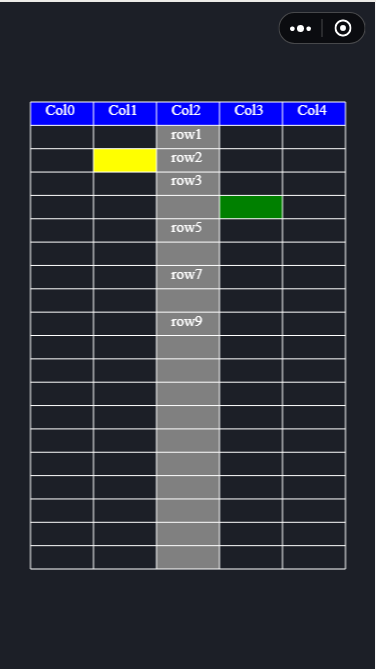
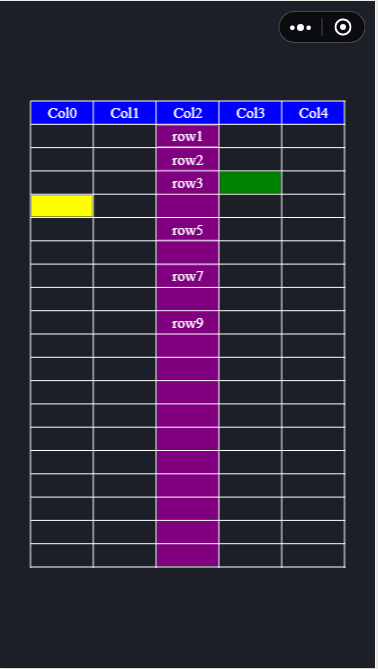
optimize

Changed region(s): [[0.0585, 0.1495, 0.9362, 0.867], [0.0, 0.0, 1.0, 1.0], [0.0585, 0.1495, 0.0878, 0.1794]]

diff --git a/js/charts/scroll-view.js b/js/charts/scroll-view.js
@@ -34,8 +34,10 @@ module.exports = function(ctx, options) {
     colW: options.colW,
     edgeLeft: options.edgeLeft,
     edgeTop: options.edgeTop,
-    width: options.width,
-    height: options.height,
+    edgeRight: options.edgeRight,
+    edgeBottom: options.edgeBottom,
+    width: 0,
+    height: 0,
     lineColor: options.lineColor || "black",
     lineWidth: options.lineWidth || 1.0,
     colTitle: options.colTitle || [],
@@ -49,6 +51,12 @@ module.exports = function(ctx, options) {
 
     // some init operation
     init: function() {
+      wx.getSystemInfo({
+        success: info => {
+          this.height = info.windowHeight - this.edgeBottom - this.edgeTop
+          this.width = info.windowWidth - this.edgeLeft - this.edgeRight
+        }
+      })
       this.rowH = (this.height - this.lineWidth * (this.rowNum + 1)) / this.rowNum
       this.colW = (this.width - this.lineWidth * (this.colNum + 1)) / this.colNum
     },
@@ -58,16 +66,22 @@ module.exports = function(ctx, options) {
       let ctx = this.ctx
       ctx.strokeStyle = this.lineColor
       ctx.lineWidth = this.lineWidth
+
+      ctx.translate(this.edgeLeft, this.edgeTop)
+
+      let startX = 0
+      let endX = startX + this.width;
+      let startY, endY
       for(let i=0; i < this.rowNum+1; i++) {
-        let startX = this.edgeLeft;
-        let endX = this.edgeLeft + this.width;
-        let startY = this.edgeTop + i * (this.rowH + this.lineWidth)
-        let endY = startY
+        startY = i * (this.rowH + this.lineWidth)
+        endY = startY
         ctx.beginPath();
         ctx.moveTo(startX, startY);
         ctx.lineTo(endX, endY);
         ctx.stroke();
       }
+
+      ctx.translate(- this.edgeLeft, - this.edgeTop)
     },
 
     // draw vertical
@@ -75,31 +89,42 @@ module.exports = function(ctx, options) {
       let ctx = this.ctx
       ctx.strokeStyle = this.lineColor
       ctx.lineWidth = this.lineWidth
+
+      ctx.translate(this.edgeLeft, this.edgeTop)
+
+      let startY = 0
+      let endY = startY + this.height
+      let startX = 0
+      let endX = 0
       for(let i=0; i < this.colNum+1; i++) {
-        let startX = this.edgeLeft + i * (this.colW + this.lineWidth)
-        let endX = startX
-        let startY = this.edgeTop
-        let endY = startY + this.height
+        startX = i * (this.colW + this.lineWidth)
+        endX = startX
         ctx.beginPath()
         ctx.moveTo(startX, startY)
         ctx.lineTo(endX, endY)
         ctx.stroke()
       }
+
+      ctx.translate(- this.edgeLeft, - this.edgeTop)
     },
 
     // draw column title
     drawColTitle: function() {
-      let startX = 0
-      let startY = this.edgeTop + this.lineWidth + this.rowH / 2
       let ctx = this.ctx
       ctx.font = this.titleFont
       ctx.fillStyle = this.titleColor 
       ctx.textAlign = "center"
       ctx.textBaseline = "middle"
+
+      ctx.translate(this.edgeLeft + this.lineWidth, this.edgeTop + this.lineWidth)
+
+      let startX = 0
+      let startY = this.rowH / 2
       for(let i=0; i<this.colTitle.length; i++) {
-        startX = this.edgeLeft + this.lineWidth + i * (this.colW + this.lineWidth) + this.colW / 2
+        startX = i * (this.colW + this.lineWidth) + this.colW / 2
         ctx.fillText(this.colTitle[i], startX, startY)
       }
+      ctx.translate(- this.edgeLeft - this.lineWidth, - this.edgeTop - this.lineWidth)
     },
 
     // draw background color
@@ -109,10 +134,12 @@ module.exports = function(ctx, options) {
       this.ctx.fillStyle = this.bgColor
       this.ctx.fillRect(this.edgeLeft, this.edgeTop, this.width, this.height)
       
+      ctx.translate(this.edgeLeft + this.lineWidth, this.edgeTop + this.lineWidth)
+
       // for column
       for(let i=0; i<this.rcBgColor.cols.length; i++) {
-        startX = this.edgeLeft + this.lineWidth + this.rcBgColor.cols[i][0] * (this.colW + this.lineWidth)
-        startY = this.edgeTop + this.lineWidth + (this.hasTitle ? (this.rowH + this.lineWidth) : 0)
+        startX = this.rcBgColor.cols[i][0] * (this.colW + this.lineWidth)
+        startY = this.hasTitle ? (this.rowH + this.lineWidth) : 0
         w = this.colW
         h = this.height - 3 * this.lineWidth - (this.hasTitle ? (this.rowH + this.lineWidth) : 0)
         this.ctx.fillStyle = this.rcBgColor.cols[i][1]
@@ -120,8 +147,8 @@ module.exports = function(ctx, options) {
       }
       // for row
       for(let i=0; i<this.rcBgColor.rows.length; i++) {
-        startX = this.edgeLeft + this.lineWidth
-        startY = this.edgeTop + this.lineWidth + this.rcBgColor.rows[i][0] * (this.rowH + this.lineWidth)
+        startX = 0
+        startY = this.rcBgColor.rows[i][0] * (this.rowH + this.lineWidth)
         w = this.width - 3 * this.lineWidth
         h = this.rowH - this.lineWidth
         this.ctx.fillStyle = this.rcBgColor.rows[i][1]
@@ -130,23 +157,26 @@ module.exports = function(ctx, options) {
 
       // for cell
       for(let i=0; i<this.rcBgColor.cells.length; i++){
-        startX = this.edgeLeft + this.lineWidth + this.rcBgColor.cells[i][1] * (this.colW + this.lineWidth)
-        startY = this.edgeTop + this.lineWidth + this.rcBgColor.cells[i][0] * (this.rowH + this.lineWidth)
+        startX = this.rcBgColor.cells[i][1] * (this.colW + this.lineWidth)
+        startY = this.rcBgColor.cells[i][0] * (this.rowH + this.lineWidth)
         w = this.colW - this.lineWidth
         h = this.rowH - this.lineWidth
         this.ctx.fillStyle = this.rcBgColor.cells[i][2]
         this.ctx.fillRect(startX, startY, w, h)
       }
+
+      ctx.translate(- this.edgeLeft - this.lineWidth, - this.edgeTop - this.lineWidth)
     },
 
     // draw item content
     drawItem: function(itemContent) {
       let startX, startY, w, h
       let ctx = this.ctx
+      ctx.translate(this.edgeLeft + this.lineWidth, this.edgeTop + this.lineWidth)
       for(let i=0; i<itemContent.length; i++) {
         // clear old item
-        startX = this.edgeLeft + this.lineWidth + itemContent[i][1] * (this.colW + this.lineWidth)
-        startY = this.edgeTop + this.lineWidth + itemContent[i][0] * (this.rowH + this.lineWidth)
+        startX = itemContent[i][1] * (this.colW + this.lineWidth)
+        startY = itemContent[i][0] * (this.rowH + this.lineWidth)
         w = this.colW - this.lineWidth
         h = this.rowH - this.lineWidth
         ctx.clearRect(startX, startY, w, h)
@@ -186,10 +216,11 @@ module.exports = function(ctx, options) {
         ctx.fillStyle = this.itemColor 
         ctx.textAlign = "center"
         ctx.textBaseline = "middle"
-        startX = this.edgeLeft + this.lineWidth + itemContent[i][1] * (this.colW + this.lineWidth) + this.colW / 2
-        startY = this.edgeTop + this.lineWidth + itemContent[i][0] * (this.rowH + this.lineWidth) + this.rowH / 2
+        startX = itemContent[i][1] * (this.colW + this.lineWidth) + this.colW / 2
+        startY = itemContent[i][0] * (this.rowH + this.lineWidth) + this.rowH / 2
         ctx.fillText(itemContent[i][2], startX, startY)
       }
+      ctx.translate(- this.edgeLeft - this.lineWidth, - this.edgeTop - this.lineWidth)
     },
 
     draw: function() {
